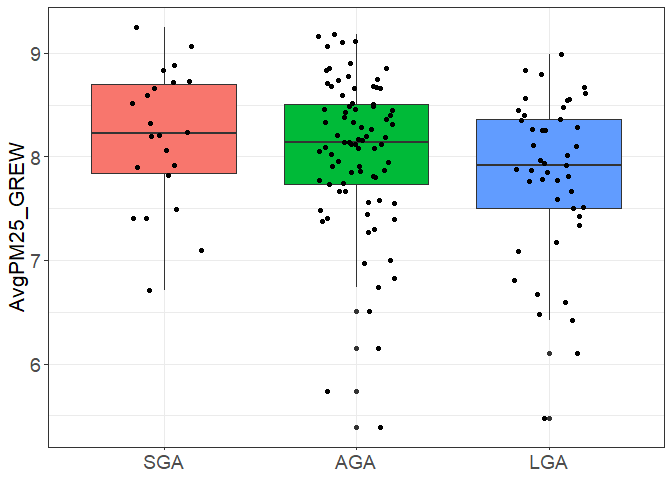
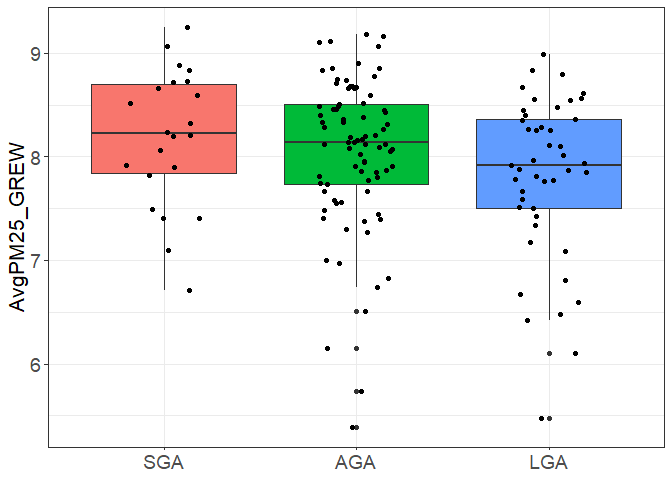
Updating RICHS_PM2.5_WGCNA code subsetted to participants with PM2.5 and WGCNA info; reformatted table outputs using knitr::kableone function to remove redundant output

diff --git a/RICHS_PM2.5_WGCNA.md b/RICHS_PM2.5_WGCNA.md
@@ -146,91 +146,8 @@ myVars <- names(Demo_table)[!names(Demo_table)%in%c('ID')]
 catVars <- c("Sex", "Parity","F13Group", "DM",'Edu','Race','Income','Smoke',"Season","Cohort")
 
 tab <- CreateTableOne(vars = myVars, data = Demo_table, strata = "Cohort",factorVars = catVars,includeNA=T)
-kable(print(tab,showAllLevels = T))
+kableone(print(tab,showAllLevels = T))
 ```
-
-    ##                           Stratified by Cohort
-    ##                            level                  Full           PM            
-    ##   n                                                 799            471         
-    ##   AvgPM25_GREW (mean (SD))                         7.97 (0.79)    7.97 (0.79)  
-    ##   F13perc (mean (SD))                             53.48 (34.48)  58.18 (34.07) 
-    ##   F13Group (%)             SGA                      157 ( 19.6)     77 ( 16.3) 
-    ##                            AGA                      456 ( 57.1)    260 ( 55.2) 
-    ##                            LGA                      186 ( 23.3)    134 ( 28.5) 
-    ##   GestAge (mean (SD))                             39.00 (0.95)   38.99 (0.92)  
-    ##   Sex (%)                  Female                   401 ( 50.2)    227 ( 48.2) 
-    ##                            Male                     398 ( 49.8)    244 ( 51.8) 
-    ##   DM (%)                   C-Section                408 ( 51.1)    250 ( 53.1) 
-    ##                            Vaginal                  391 ( 48.9)    221 ( 46.9) 
-    ##   Parity (%)               Nulliparous              326 ( 40.8)    188 ( 39.9) 
-    ##                            Parous                   467 ( 58.4)    281 ( 59.7) 
-    ##                            <NA>                       6 (  0.8)      2 (  0.4) 
-    ##   MomAge (mean (SD))                              29.72 (5.47)   30.03 (5.65)  
-    ##   Race (%)                 Black                     60 (  7.5)     28 (  5.9) 
-    ##                            Other                    151 ( 18.9)     81 ( 17.2) 
-    ##                            White                    585 ( 73.2)    361 ( 76.6) 
-    ##                            <NA>                       3 (  0.4)      1 (  0.2) 
-    ##   Edu (%)                  College grad and above   400 ( 50.1)    249 ( 52.9) 
-    ##                            HS grad                  144 ( 18.0)     76 ( 16.1) 
-    ##                            Less than HS grad         60 (  7.5)     26 (  5.5) 
-    ##                            Some College             188 ( 23.5)    115 ( 24.4) 
-    ##                            <NA>                       7 (  0.9)      5 (  1.1) 
-    ##   Income (%)               <30K                     204 ( 25.5)    117 ( 24.8) 
-    ##                            30-79K                   224 ( 28.0)    137 ( 29.1) 
-    ##                            80K+                     289 ( 36.2)    172 ( 36.5) 
-    ##                            <NA>                      82 ( 10.3)     45 (  9.6) 
-    ##   Smoke (%)                No                       746 ( 93.4)    441 ( 93.6) 
-    ##                            Yes                       42 (  5.3)     23 (  4.9) 
-    ##                            <NA>                      11 (  1.4)      7 (  1.5) 
-    ##   BMI (mean (SD))                                 26.60 (7.00)   26.94 (7.10)  
-    ##   Season (%)               Fall                     171 ( 21.4)    136 ( 28.9) 
-    ##                            Spring                   216 ( 27.0)    111 ( 23.6) 
-    ##                            Summer                   261 ( 32.7)    137 ( 29.1) 
-    ##                            Winter                   151 ( 18.9)     87 ( 18.5) 
-    ##   Cohort (%)               Full                     799 (100.0)      0 (  0.0) 
-    ##                            PM                         0 (  0.0)    471 (100.0) 
-    ##                            Subset                     0 (  0.0)      0 (  0.0) 
-    ##                           Stratified by Cohort
-    ##                            Subset         p      test
-    ##   n                          149                     
-    ##   AvgPM25_GREW (mean (SD))  7.99 (0.74)    0.943     
-    ##   F13perc (mean (SD))      56.93 (34.14)   0.053     
-    ##   F13Group (%)                22 ( 14.8)   0.117     
-    ##                               82 ( 55.0)             
-    ##                               45 ( 30.2)             
-    ##   GestAge (mean (SD))      38.95 (0.96)    0.865     
-    ##   Sex (%)                     71 ( 47.7)   0.725     
-    ##                               78 ( 52.3)             
-    ##   DM (%)                      67 ( 45.0)   0.225     
-    ##                               82 ( 55.0)             
-    ##   Parity (%)                  53 ( 35.6)   0.538     
-    ##                               96 ( 64.4)             
-    ##                                0 (  0.0)             
-    ##   MomAge (mean (SD))       31.23 (4.78)    0.008     
-    ##   Race (%)                     7 (  4.7)   0.502     
-    ##                               22 ( 14.8)             
-    ##                              120 ( 80.5)             
-    ##                                0 (  0.0)             
-    ##   Edu (%)                     91 ( 61.1)   0.194     
-    ##                               17 ( 11.4)             
-    ##                                5 (  3.4)             
-    ##                               34 ( 22.8)             
-    ##                                2 (  1.3)             
-    ##   Income (%)                  25 ( 16.8)   0.130     
-    ##                               38 ( 25.5)             
-    ##                               72 ( 48.3)             
-    ##                               14 (  9.4)             
-    ##   Smoke (%)                  142 ( 95.3)   0.377     
-    ##                                3 (  2.0)             
-    ##                                4 (  2.7)             
-    ##   BMI (mean (SD))          26.25 (6.28)    0.525     
-    ##   Season (%)                  42 ( 28.2)   0.025     
-    ##                               29 ( 19.5)             
-    ##                               55 ( 36.9)             
-    ##                               23 ( 15.4)             
-    ##   Cohort (%)                   0 (  0.0)  <0.001     
-    ##                                0 (  0.0)             
-    ##                              149 (100.0)
 
 |                           | level                  | Full          | PM            | Subset        | p       | test |
 | ------------------------- | :--------------------- | :------------ | :------------ | :------------ | :------ | :--- |
@@ -282,83 +199,8 @@ write.csv(tabMat, file = "Tables/PM25(GREW)_Full.vs.subset_cohort_table.csv")
 myVars <- names(Demo_table_subset)[!names(Demo_table_subset)%in%c('ID')]
 catVars <- c("Sex", "Parity","F13Group", "DM",'Edu','Race','Income','Smoke',"Season")
 tab <- CreateTableOne(vars = myVars, data = Demo_table_subset, strata = "F13Group",factorVars = catVars,includeNA=T)
-kable(print(tab,showAllLevels = T))
+kableone(print(tab,showAllLevels = T))
 ```
-
-    ##                           Stratified by F13Group
-    ##                            level                  SGA            AGA           
-    ##   n                                                  22             82         
-    ##   AvgPM25_GREW (mean (SD))                         8.18 (0.66)    8.04 (0.73)  
-    ##   F13perc (mean (SD))                              4.77 (3.04)   50.11 (23.19) 
-    ##   F13Group (%)             SGA                       22 (100.0)      0 (  0.0) 
-    ##                            AGA                        0 (  0.0)     82 (100.0) 
-    ##                            LGA                        0 (  0.0)      0 (  0.0) 
-    ##   GestAge (mean (SD))                             38.86 (1.25)   38.98 (0.98)  
-    ##   Sex (%)                  Female                    13 ( 59.1)     41 ( 50.0) 
-    ##                            Male                       9 ( 40.9)     41 ( 50.0) 
-    ##   DM (%)                   C-Section                  9 ( 40.9)     30 ( 36.6) 
-    ##                            Vaginal                   13 ( 59.1)     52 ( 63.4) 
-    ##   Parity (%)               Nulliparous               11 ( 50.0)     35 ( 42.7) 
-    ##                            Parous                    11 ( 50.0)     47 ( 57.3) 
-    ##   MomAge (mean (SD))                              31.95 (6.14)   30.98 (4.70)  
-    ##   Race (%)                 Black                      3 ( 13.6)      2 (  2.4) 
-    ##                            Other                      5 ( 22.7)     13 ( 15.9) 
-    ##                            White                     14 ( 63.6)     67 ( 81.7) 
-    ##   Edu (%)                  College grad and above    14 ( 63.6)     51 ( 62.2) 
-    ##                            HS grad                    4 ( 18.2)     10 ( 12.2) 
-    ##                            Less than HS grad          1 (  4.5)      3 (  3.7) 
-    ##                            Some College               3 ( 13.6)     18 ( 22.0) 
-    ##                            <NA>                       0 (  0.0)      0 (  0.0) 
-    ##   Income (%)               <30K                       5 ( 22.7)     10 ( 12.2) 
-    ##                            30-79K                     6 ( 27.3)     18 ( 22.0) 
-    ##                            80K+                       8 ( 36.4)     48 ( 58.5) 
-    ##                            <NA>                       3 ( 13.6)      6 (  7.3) 
-    ##   Smoke (%)                No                        19 ( 86.4)     79 ( 96.3) 
-    ##                            Yes                        1 (  4.5)      1 (  1.2) 
-    ##                            <NA>                       2 (  9.1)      2 (  2.4) 
-    ##   BMI (mean (SD))                                 25.19 (7.19)   25.44 (5.54)  
-    ##   Season (%)               Fall                       6 ( 27.3)     26 ( 31.7) 
-    ##                            Spring                     3 ( 13.6)     16 ( 19.5) 
-    ##                            Summer                     8 ( 36.4)     27 ( 32.9) 
-    ##                            Winter                     5 ( 22.7)     13 ( 15.9) 
-    ##   Cohort (%)               Subset                    22 (100.0)     82 (100.0) 
-    ##                           Stratified by F13Group
-    ##                            LGA            p      test
-    ##   n                           45                     
-    ##   AvgPM25_GREW (mean (SD))  7.81 (0.78)    0.098     
-    ##   F13perc (mean (SD))      94.86 (2.70)   <0.001     
-    ##   F13Group (%)                 0 (  0.0)  <0.001     
-    ##                                0 (  0.0)             
-    ##                               45 (100.0)             
-    ##   GestAge (mean (SD))      38.96 (0.77)    0.890     
-    ##   Sex (%)                     17 ( 37.8)   0.213     
-    ##                               28 ( 62.2)             
-    ##   DM (%)                      28 ( 62.2)   0.019     
-    ##                               17 ( 37.8)             
-    ##   Parity (%)                   7 ( 15.6)   0.003     
-    ##                               38 ( 84.4)             
-    ##   MomAge (mean (SD))       31.36 (4.21)    0.684     
-    ##   Race (%)                     2 (  4.4)   0.103     
-    ##                                4 (  8.9)             
-    ##                               39 ( 86.7)             
-    ##   Edu (%)                     26 ( 57.8)   0.394     
-    ##                                3 (  6.7)             
-    ##                                1 (  2.2)             
-    ##                               13 ( 28.9)             
-    ##                                2 (  4.4)             
-    ##   Income (%)                  10 ( 22.2)   0.227     
-    ##                               14 ( 31.1)             
-    ##                               16 ( 35.6)             
-    ##                                5 ( 11.1)             
-    ##   Smoke (%)                   44 ( 97.8)   0.216     
-    ##                                1 (  2.2)             
-    ##                                0 (  0.0)             
-    ##   BMI (mean (SD))          28.33 (6.76)    0.034     
-    ##   Season (%)                  10 ( 22.2)   0.697     
-    ##                               10 ( 22.2)             
-    ##                               20 ( 44.4)             
-    ##                                5 ( 11.1)             
-    ##   Cohort (%)                  45 (100.0)   NA
 
 |                           | level                  | SGA          | AGA           | LGA          | p       | test |
 | ------------------------- | :--------------------- | :----------- | :------------ | :----------- | :------ | :--- |
@@ -408,87 +250,8 @@ write.csv(tabMat, file = "Tables/PM25(GREW)_subset_BW_table.csv")
 myVars <- names(Demo_table_full)[!names(Demo_table_full)%in%c('ID')]
 catVars <- c("Sex", "Parity","F13Group", "DM",'Edu','Race','Income','Smoke',"Season")
 tab <- CreateTableOne(vars = myVars, data = Demo_table_full, strata = "F13Group",factorVars = catVars,includeNA=T)
-kable(print(tab,showAllLevels = T))
+kableone(print(tab,showAllLevels = T))
 ```
-
-    ##                           Stratified by F13Group
-    ##                            level                  SGA            AGA           
-    ##   n                                                 157            456         
-    ##   AvgPM25_GREW (mean (SD))                         8.19 (0.75)    7.96 (0.81)  
-    ##   F13perc (mean (SD))                              5.13 (3.18)   53.13 (23.68) 
-    ##   F13Group (%)             SGA                      157 (100.0)      0 (  0.0) 
-    ##                            AGA                        0 (  0.0)    456 (100.0) 
-    ##                            LGA                        0 (  0.0)      0 (  0.0) 
-    ##   GestAge (mean (SD))                             39.04 (1.12)   38.99 (0.94)  
-    ##   Sex (%)                  Female                    93 ( 59.2)    220 ( 48.2) 
-    ##                            Male                      64 ( 40.8)    236 ( 51.8) 
-    ##   DM (%)                   C-Section                 63 ( 40.1)    206 ( 45.2) 
-    ##                            Vaginal                   94 ( 59.9)    250 ( 54.8) 
-    ##   Parity (%)               Nulliparous               86 ( 54.8)    184 ( 40.4) 
-    ##                            Parous                    68 ( 43.3)    270 ( 59.2) 
-    ##                            <NA>                       3 (  1.9)      2 (  0.4) 
-    ##   MomAge (mean (SD))                              28.39 (6.07)   29.83 (5.34)  
-    ##   Race (%)                 Black                     24 ( 15.3)     25 (  5.5) 
-    ##                            Other                     44 ( 28.0)     85 ( 18.6) 
-    ##                            White                     89 ( 56.7)    344 ( 75.4) 
-    ##                            <NA>                       0 (  0.0)      2 (  0.4) 
-    ##   Edu (%)                  College grad and above    62 ( 39.5)    235 ( 51.5) 
-    ##                            HS grad                   33 ( 21.0)     75 ( 16.4) 
-    ##                            Less than HS grad         15 (  9.6)     39 (  8.6) 
-    ##                            Some College              46 ( 29.3)    104 ( 22.8) 
-    ##                            <NA>                       1 (  0.6)      3 (  0.7) 
-    ##   Income (%)               <30K                      53 ( 33.8)    110 ( 24.1) 
-    ##                            30-79K                    40 ( 25.5)    121 ( 26.5) 
-    ##                            80K+                      40 ( 25.5)    184 ( 40.4) 
-    ##                            <NA>                      24 ( 15.3)     41 (  9.0) 
-    ##   Smoke (%)                No                       132 ( 84.1)    432 ( 94.7) 
-    ##                            Yes                       20 ( 12.7)     18 (  3.9) 
-    ##                            <NA>                       5 (  3.2)      6 (  1.3) 
-    ##   BMI (mean (SD))                                 25.08 (6.77)   26.19 (6.65)  
-    ##   Season (%)               Fall                      37 ( 23.6)     96 ( 21.1) 
-    ##                            Spring                    41 ( 26.1)    121 ( 26.5) 
-    ##                            Summer                    44 ( 28.0)    155 ( 34.0) 
-    ##                            Winter                    35 ( 22.3)     84 ( 18.4) 
-    ##   Cohort (%)               Full                     157 (100.0)    456 (100.0) 
-    ##                           Stratified by F13Group
-    ##                            LGA            p      test
-    ##   n                          186                     
-    ##   AvgPM25_GREW (mean (SD))  7.86 (0.76)    0.014     
-    ##   F13perc (mean (SD))      95.17 (2.89)   <0.001     
-    ##   F13Group (%)                 0 (  0.0)  <0.001     
-    ##                                0 (  0.0)             
-    ##                              186 (100.0)             
-    ##   GestAge (mean (SD))      38.98 (0.79)    0.794     
-    ##   Sex (%)                     88 ( 47.3)   0.040     
-    ##                               98 ( 52.7)             
-    ##   DM (%)                     139 ( 74.7)  <0.001     
-    ##                               47 ( 25.3)             
-    ##   Parity (%)                  56 ( 30.1)  <0.001     
-    ##                              129 ( 69.4)             
-    ##                                1 (  0.5)             
-    ##   MomAge (mean (SD))       30.58 (5.06)    0.001     
-    ##   Race (%)                    11 (  5.9)  <0.001     
-    ##                               22 ( 11.8)             
-    ##                              152 ( 81.7)             
-    ##                                1 (  0.5)             
-    ##   Edu (%)                    103 ( 55.4)   0.030     
-    ##                               36 ( 19.4)             
-    ##                                6 (  3.2)             
-    ##                               38 ( 20.4)             
-    ##                                3 (  1.6)             
-    ##   Income (%)                  41 ( 22.0)   0.002     
-    ##                               63 ( 33.9)             
-    ##                               65 ( 34.9)             
-    ##                               17 (  9.1)             
-    ##   Smoke (%)                  182 ( 97.8)  <0.001     
-    ##                                4 (  2.2)             
-    ##                                0 (  0.0)             
-    ##   BMI (mean (SD))          28.90 (7.51)   <0.001     
-    ##   Season (%)                  38 ( 20.4)   0.755     
-    ##                               54 ( 29.0)             
-    ##                               62 ( 33.3)             
-    ##                               32 ( 17.2)             
-    ##   Cohort (%)                 186 (100.0)   NA
 
 |                           | level                  | SGA          | AGA           | LGA          | p       | test |
 | ------------------------- | :--------------------- | :----------- | :------------ | :----------- | :------ | :--- |
